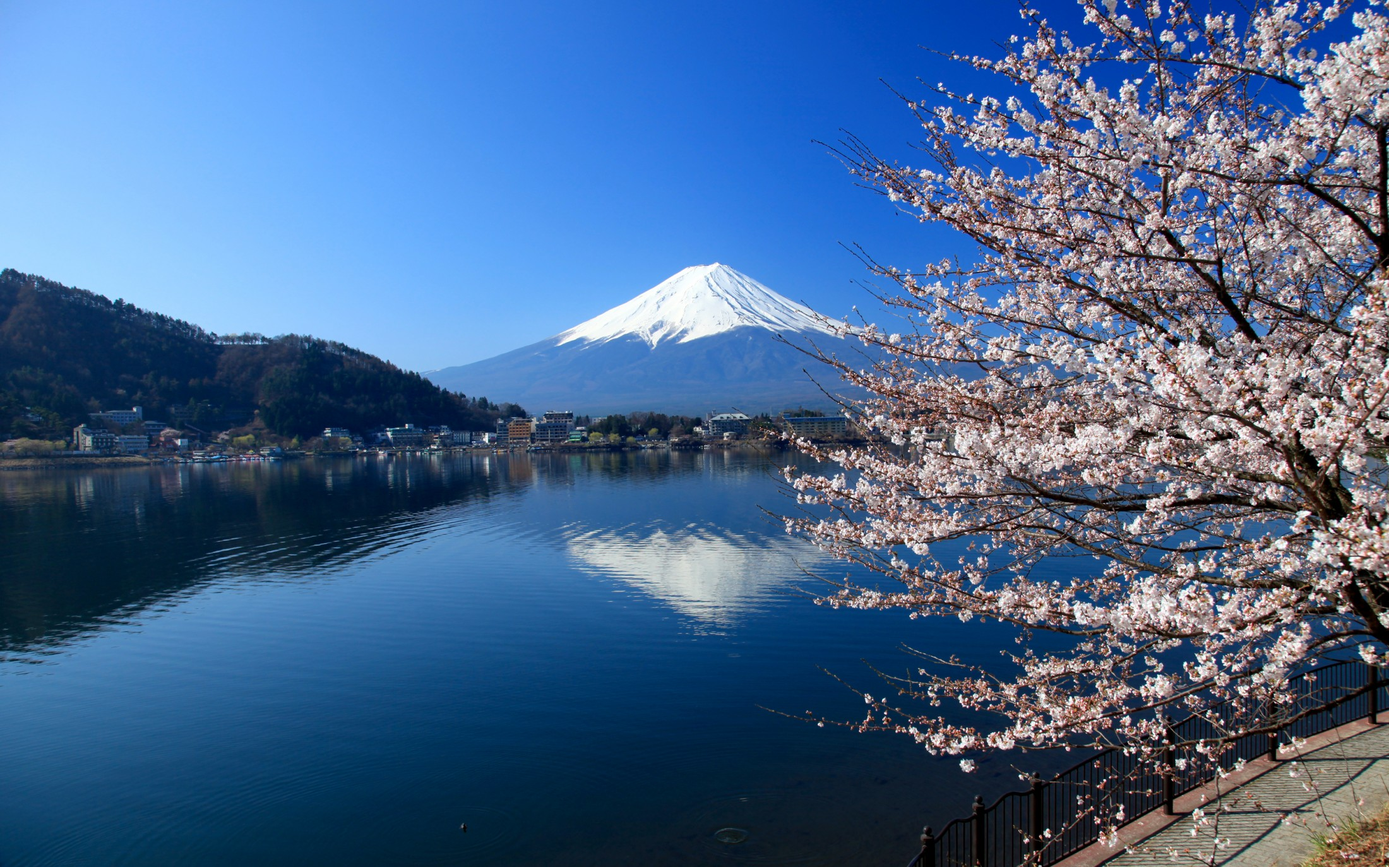
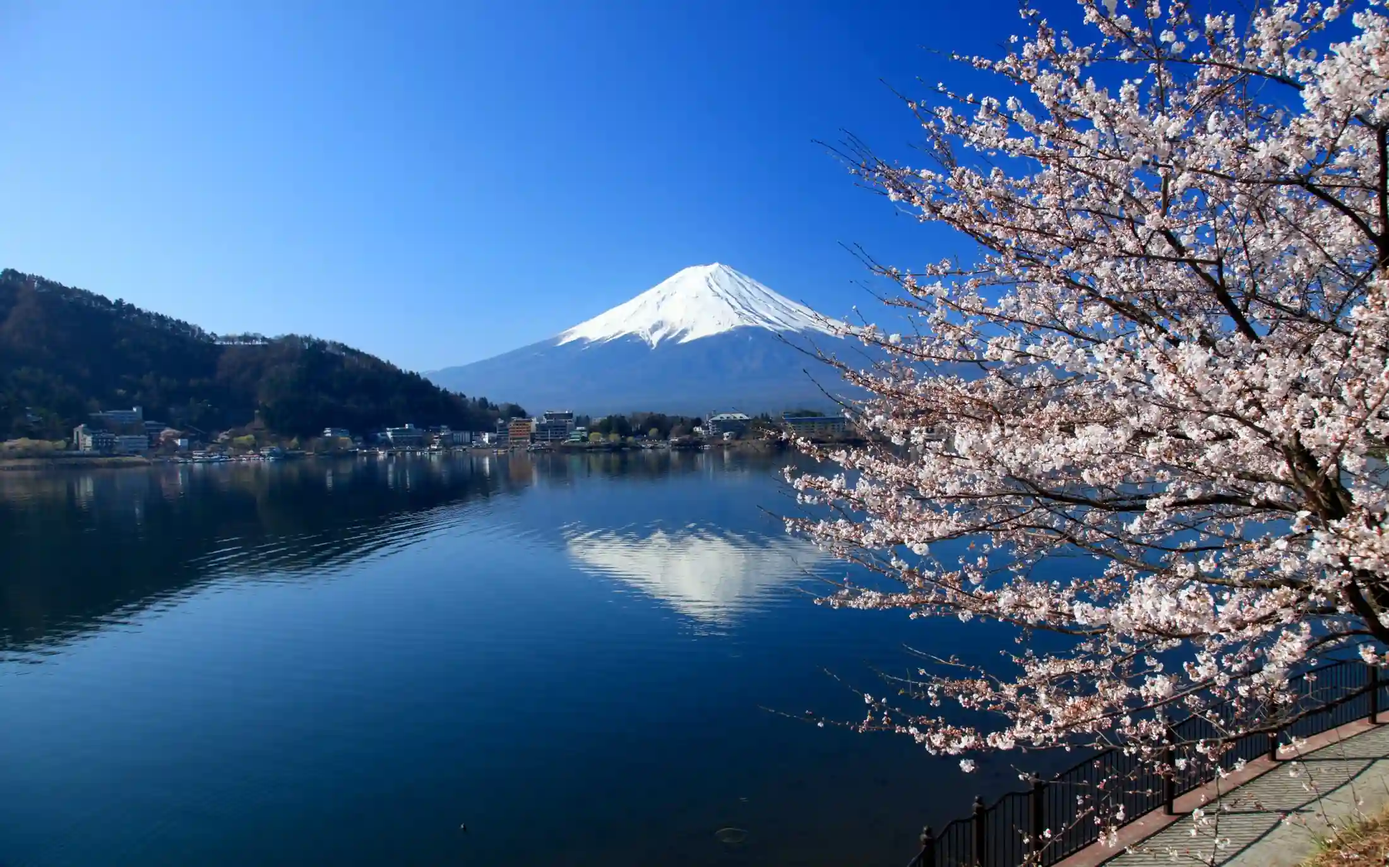
Img Update

diff --git a/place.html b/place.html
@@ -3,6 +3,8 @@
 <head>
   <meta charset="UTF-8">
   <meta name="viewport" content="width=device-width, initial-scale=1.0">
+  <meta name="description" content="Explore Japan with country data, weather information, and responsive design features.">
+  <meta name="author" content="Thomas Dettmar">
   <title>Place Page</title>
 
   <link rel="stylesheet" href="styles/place.css">
